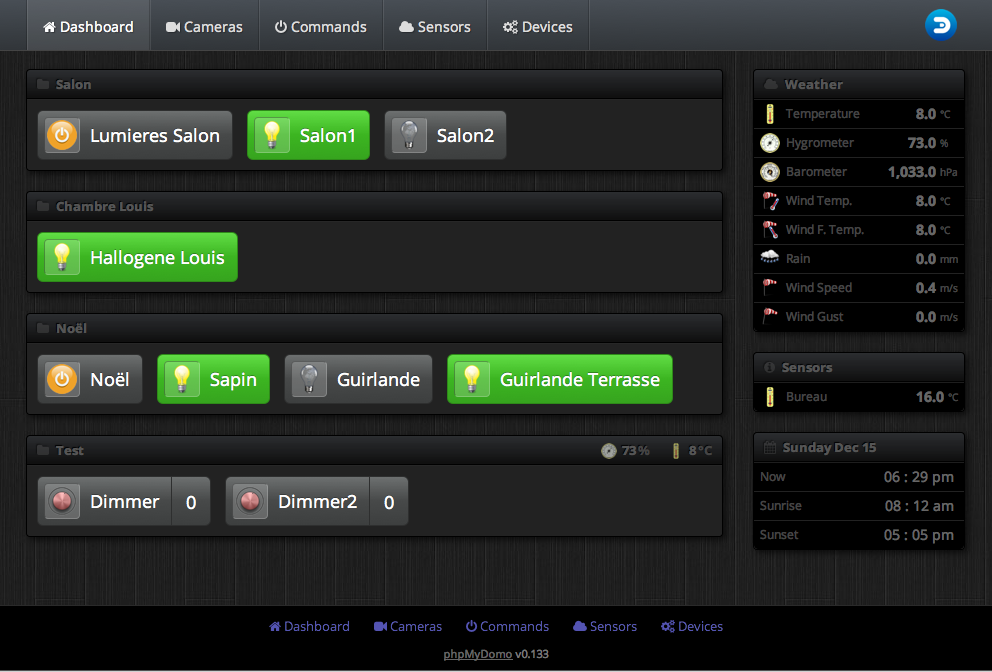
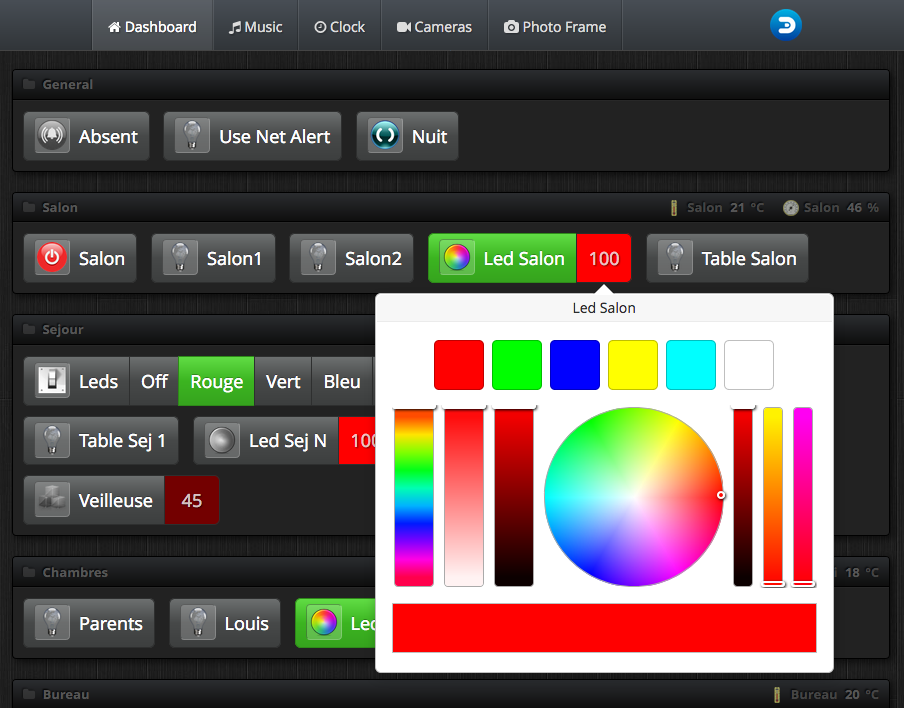
Documents new features in v0.600

diff --git a/www/inc/lib/boot.php b/www/inc/lib/boot.php
@@ -4,7 +4,7 @@ ini_set('display_errors','On');
 
 // base ------------------------------------------------------------------------------------
 $conf=array();
-$conf['app']['version']		="0.500";
+$conf['app']['version']		="0.600b";
 $conf['app']['name']		="phpMyDomo";
 
 //detect https

diff --git a/README.md b/README.md
@@ -16,7 +16,9 @@ Currently supported software include __Domoticz__, __Domotiga__, __OpenHab__ and
 This is a Work In Progress: Depending on the chosen server API, some features might not be fully working at this time.
 
 ## Features
-- Allow to Switch on/off or Dim any supported devices or scenes, from the Dashboard page
+
+- Allows to switch on/off or Dim any supported devices or scenes, from the Dashboard page
+- Supports RGB(W) buttons with color picker and color presets
 - View all sensors at once, or per user defined groups
 - View all your IP Cameras on a single page
 - Display your photo library from a PhotoFrame like page
@@ -35,10 +37,12 @@ This is a Work In Progress: Depending on the chosen server API, some features mi
 - Highest WAF (Wife acceptation Factor) possible
 
 ## Demo
+
 Please go the [phpMyDomo Demo site](http://www.phpmydomo.org/demo/www) for a live preview.
 
 
 ## Screenshots
+
 ![alt text](www/inc/doc/screenshots/01.png?raw=true "Main page (Default Skin)")
 ![alt text](www/inc/doc/screenshots/02.png?raw=true "Main page on phone (Metal Skin)")
 ![alt text](www/inc/doc/screenshots/03.png?raw=true "Main page (Black Skin)")
@@ -47,14 +51,17 @@ Please go the [phpMyDomo Demo site](http://www.phpmydomo.org/demo/www) for a liv
 
 
 ## Install
+
 Just [download the 'Master' archive](https://github.com/phpMyDomo/phpMyDomo/archive/master.zip), and follow the [Install guide](www/inc/doc/INSTALL.md), or
 install from git : `git clone https://github.com/phpMyDomo/phpMyDomo.git`
 
 
 ## Update
+
 *You can browse the [ChangeLog](www/inc/doc/changelog.md), no see what's new.*
 
 The are 2 methods to update PMD: Either from git (fastest) or manually.
+
 - Update from git : `git pull` (in the root phpMydomo directory). Then go to `http://[your_web_server]/utils/update` from your web browser, to finish the procedure.
 
 - Manually : you will see a link in the footer of each PMD page, indicating if there is an update available.
@@ -62,6 +69,7 @@ Click the 'available' link, and follow the instructions (be sure to keep a copy 
 
 
 ## Skills Wanted !
+
 One of the goal of this app is to gather talented developers, designers and users, to build the coolest WebApp that can control any smart domotic's software.
 
 What's needed:
@@ -81,6 +89,7 @@ __So Please, fork this Repo, and make Pull-Requests to the Develop branch ;-)__
 
 
 ## Support
+
 The software is provided as is, and needs a minimum computer expertise to be installed and configured. I won't provide any support by email , phone, tickets, etc...  but if you're offering money, I might change my mind... ;-)
 
 If something doesn't works, look at the code. If the code is missing, well, code it and make a pull request. If you're not a coder yourself, I (or any other developers)  might implement missing devices only if we own the device. We can't blindly support a gear that we can't test ourself.

diff --git a/www/inc/doc/changelog.md b/www/inc/doc/changelog.md
@@ -1,7 +1,20 @@
 # phpMyDomo ChangeLog
 
-## Version : 0.501 (NOT RELEASED) - xxx , 2019
-
+## Version : 0.600 (NOT RELEASED) - December XX , 2019
+- new: Domoticz - Handles RGB, RGBW buttons
+- new: RGB buttons: Full color picker
+- new: RGB buttons: Colors Presets
+- new: Brand new 'gorgeous' Squeeze Player
+- new: Squeeze - LCD like display
+- new: Squeeze - Show playlist next songs
+- new: Squeeze - Add currently playing song to a playlist
+- new: Squeeze - Clickable Progress bar
+- new: Squeeze - Links to Sheet music, Lyrics
+- new: Squeeze - Song Information (Tempo, year, reaminig time, file type)
+- fix: Don't display "ghost" players remaining registered at LMS
+- fix: Various bugs fixes
+- dev: Load Api client ONLY when needed
+- dev: FontAwesome v4.7
 
 ## Version : 0.500 - March 16, 2019
 - new: Support for OpenHab v2 API (v1 still available as 'openhab1')
